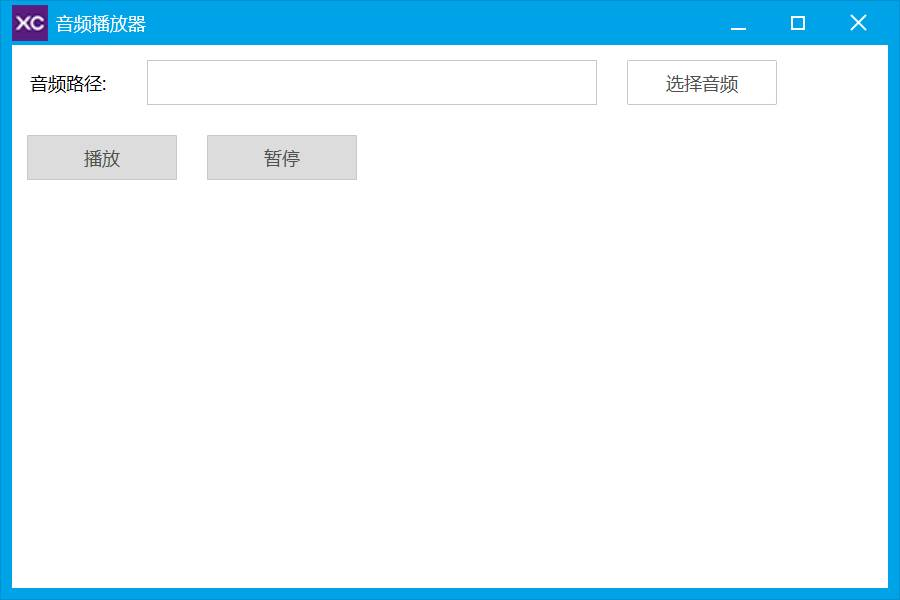
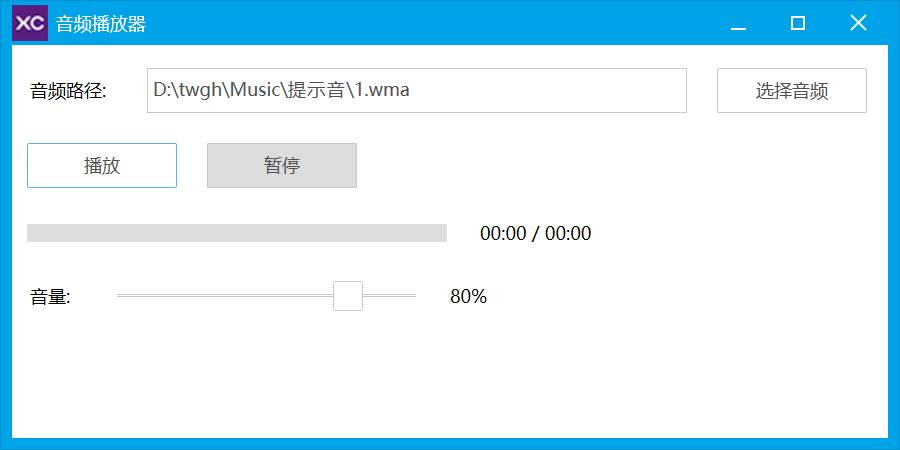
音频播放器

diff --git a/Advanced/AudioPlayer/AudioPlayer.go b/Advanced/AudioPlayer/AudioPlayer.go
@@ -33,14 +33,19 @@ type MainWindow struct {
 	btnPause       *widget.Button
 	btnSelectSound *widget.Button
 	editSoundPath  *widget.Edit
+	sliderVolume   *widget.SliderBar
+	progressBar    *widget.ProgressBar
+	textTime       *widget.ShapeText
+	volPct         *widget.ShapeText
 }
 
 func NewMainWindow() *MainWindow {
-	w := window.New(0, 0, 600, 400, "音频播放器", 0, xcc.Window_Style_Default)
+	w := window.New(0, 0, 600, 300, "音频播放器", 0, xcc.Window_Style_Default)
 
-	w.EnableLayout(true)           // 启用布局
-	w.SetPadding(10, 10, 10, 10)   // 设置布局内填充
-	w.SetSpace(20).SetSpaceRow(20) // 布局盒子设置行间距和列间距
+	w.EnableLayout(true)                             // 启用布局
+	w.SetPadding(10, 15, 10, 10)                     // 设置布局内填充
+	w.SetSpace(20).SetSpaceRow(20)                   // 布局盒子设置行间距和列间距
+	w.SetAlignBaseline(xcc.Layout_Align_Axis_Center) // 布局盒子_置对齐基线, 垂直居中
 
 	// 创建音频播放器
 	ap := wutil.NewAudioPlayer()
@@ -48,7 +53,7 @@ func NewMainWindow() *MainWindow {
 	// 标签_音频路径
 	widget.NewShapeText(0, 0, 60, 30, "音频路径:", w.Handle)
 	// 编辑框_音频路径
-	editSoundPath := widget.NewEdit(0, 0, 300, 30, w.Handle)
+	editSoundPath := widget.NewEdit(0, 0, 360, 30, w.Handle)
 
 	// 按钮_选择音频
 	btnSelectSound := widget.NewButton(0, 0, 100, 30, "选择音频", w.Handle)
@@ -59,6 +64,33 @@ func NewMainWindow() *MainWindow {
 	btnPause := widget.NewButton(0, 0, 100, 30, "暂停", w.Handle)
 	btnPause.Enable(false)
 
+	// 水平进度条
+	progressBar := widget.NewProgressBar(0, 0, 280, 12, w.Handle)
+	progressBar.SetRange(100)
+	progressBar.SetPos(0)
+	progressBar.EnableShowText(false)
+	progressBar.SetBorderSize(1, 1, 1, 1)
+	progressBar.SetColorLoad(xc.RGBA(43, 170, 255, 255))
+	progressBar.AddBkFill(xcc.Element_State_Flag_Leave, xc.RGBA(221, 221, 223, 255))
+	// 窗口组件_布局项_启用换行, 强制换行
+	progressBar.LayoutItem_EnableWrap(true)
+
+	// 时间文本
+	textTime := widget.NewShapeText(0, 0, 120, 20, "00:00 / 00:00", w.Handle)
+
+	// 音量标签
+	widget.NewShapeText(0, 0, 40, 24, "音量:", w.Handle).LayoutItem_EnableWrap(true)
+	// 水平滑块条
+	sliderVolume := widget.NewSliderBar(0, 0, 200, 24, w.Handle)
+	sliderVolume.SetRange(100)
+	sliderVolume.SetPos(80) // 默认音量 80%
+	sliderVolume.SetButtonWidth(20)
+	sliderVolume.SetButtonHeight(20)
+	sliderVolume.EnableBkTransparent(true).EnableDrawFocus(false)
+
+	// 音量百分比文本
+	volPct := widget.NewShapeText(0, 0, 40, 24, "80%", w.Handle)
+
 	m := &MainWindow{
 		w:              w,
 		ap:             ap,
@@ -66,6 +98,10 @@ func NewMainWindow() *MainWindow {
 		btnPause:       btnPause,
 		btnSelectSound: btnSelectSound,
 		editSoundPath:  editSoundPath,
+		sliderVolume:   sliderVolume,
+		progressBar:    progressBar,
+		textTime:       textTime,
+		volPct:         volPct,
 	}
 	// 注册事件
 	m.regEvents()
@@ -83,7 +119,7 @@ func (m *MainWindow) regEvents() {
 
 	// 按钮_选择音频, 单击事件
 	m.btnSelectSound.AddEvent_BnClick(func(hEle int, pbHandled *bool) int {
-		filePath := wutil.OpenFile(m.w.Handle, []string{"音频文件(*.mp3;*.wav;*.aac;*.ogg;*.flac)", "*.mp3;*.wav;*.aac;*.ogg;*.flac", "All Files(*.*)", "*.*"}, "%USERPROFILE%\\Music")
+		filePath := wutil.OpenFile(m.w.Handle, []string{"音频文件(*.mp3;*.wav;*.wma)", "*.mp3;*.wav;*.wma"}, "%USERPROFILE%\\Music")
 		if filePath == "" {
 			return 0
 		}
@@ -125,6 +161,18 @@ func (m *MainWindow) regEvents() {
 		}
 		return 0
 	})
+
+	// 音量滑块, 滑块位置改变事件
+	m.sliderVolume.AddEvent_SliderBar_Change(func(hEle int, pos int32, pbHandled *bool) int {
+		// 更新音量百分比显示
+		m.volPct.SetText(fmt.Sprintf("%d%%", pos))
+		m.volPct.Redraw()
+		// 在播放中才设置音量
+		if m.ap.IsPlaying() || m.ap.IsPaused() {
+			_ = m.ap.SetVolume(int(pos) * 10)
+		}
+		return 0
+	})
 }
 
 // 关闭音频播放器
@@ -156,7 +204,7 @@ func (m *MainWindow) closeAudioPlayer() {
 func (m *MainWindow) playAudio() {
 	m.btnPlay.SetText("停止").Redraw(false)
 
-	vol := 800 // 音量
+	vol := int(m.sliderVolume.GetPos()) * 10 // 滑块 0-100 → 音量 0-1000
 	err := m.ap.Play(wutil.PlayOptions{
 		Volume:      &vol,
 		Wait:        false,
@@ -172,11 +220,11 @@ func (m *MainWindow) playAudio() {
 
 	// 获取音量
 	vol, err = m.ap.GetVolume()
-	fmt.Println("音量:", vol, err)
+	fmt.Printf("音量: %d, %v\n", vol, err)
 
 	// 获取音频长度
 	length, err := m.ap.GetLength()
-	fmt.Println("音频长度:", length, err)
+	fmt.Printf("音频长度: %d毫秒, %v\n", length, err)
 
 	// 获取播放进度, 等待播放完毕
 	go func() {
@@ -190,6 +238,9 @@ func (m *MainWindow) playAudio() {
 				if isStopped {
 					m.btnPlay.SetText("播放").Redraw(false)
 					m.btnPause.SetText("暂停").Enable(false).Redraw(false)
+					m.progressBar.SetPos(0).Redraw(false)
+					m.textTime.SetText("00:00 / 00:00")
+					m.textTime.Redraw()
 					return
 				}
 
@@ -199,7 +250,13 @@ func (m *MainWindow) playAudio() {
 					fmt.Println("获取播放进度失败: " + err.Error())
 					return
 				}
-				fmt.Printf("播放进度: %d\n", pos*100/length)
+				// 更新进度条 (百分比)
+				pct := int32(pos * 100 / length)
+				m.progressBar.SetPos(pct).Redraw(false)
+				// 更新时间文本
+				m.textTime.SetText(fmt.Sprintf("%s / %s",
+					formatDuration(pos), formatDuration(length)))
+				m.textTime.Redraw()
 			})
 		}
 		fmt.Println("播放完毕!")
@@ -244,4 +301,12 @@ func (m *MainWindow) resumeAudio() {
 		m.w.MessageBox("提示", "继续播放音频失败: "+err.Error(), xcc.MessageBox_Flag_Ok|xcc.MessageBox_Flag_Icon_Error, xcc.Window_Style_Modal)
 	}
 	m.btnPause.SetText("暂停").Redraw(false)
+}
+
+// formatDuration 将毫秒数格式化为 mm:ss
+func formatDuration(ms int) string {
+	totalSec := ms / 1000
+	min := totalSec / 60
+	sec := totalSec % 60
+	return fmt.Sprintf("%02d:%02d", min, sec)
 }